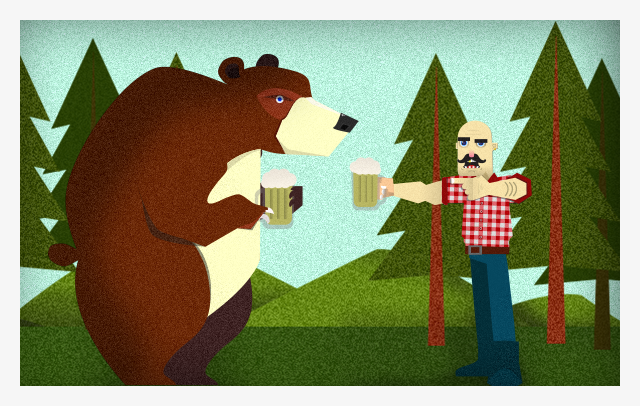
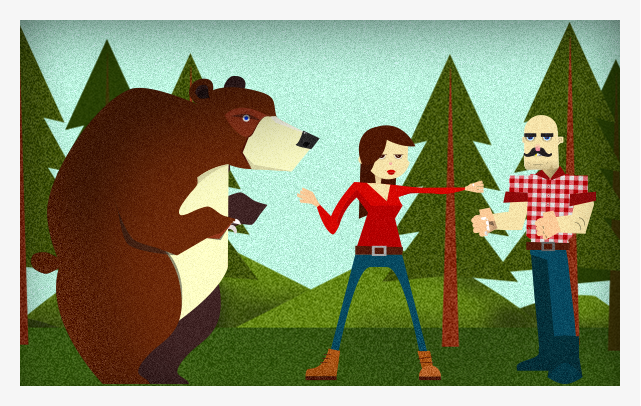
index and nova text edits; drupalcon case study

diff --git a/less/styles.less b/less/styles.less
@@ -2506,10 +2506,13 @@ img[src*="iws3.png"], img[src*="iw3.png"] {
 	.novaslider-bg .nova-block {
 		width: 50%;
 	}
-	.contact-form label {
+	.novaslider-bg .contact-form label {
 		padding-left: 20px;
 		font-size: 2em;
 		padding-top: 15px;
+	}
+	.novaslider-bg .check-group .pretty-checkbox {
+		margin: 12px 0px 0px 5px;
 	}
 }
 	
@@ -2532,14 +2535,14 @@ img[src*="iws3.png"], img[src*="iw3.png"] {
 }
 
 @media (max-width: 1010px) {
-	.contact-form label {
+	.novaslider-bg .contact-form label {
 		padding-top: 15px;
 		font-size: 1.8em;
 	}
 }
 
 @media (max-width: 959px) {
-	.contact-form label {
+	.novaslider-bg .contact-form label {
 		padding-top: 17px;
 		font-size: 1.5em;
 	}
@@ -2769,12 +2772,16 @@ img[src*="iws3.png"], img[src*="iw3.png"] {
 			}
 		}
 	}
-	.check-group .pretty-checkbox {
+	.novaslider-bg .check-group .pretty-checkbox {
 		margin: 12px 0px 0px 5px;
 	}
 }
 
-
+@media (max-width: 822px) {
+	.novaslider-bg .contact-form label {
+		font-size: 1.3em;
+	}
+}
 
 @media (max-width: 792px) {
 	.hero.aao-hero, .hero.fhi-hero, .hero.grunley-hero, .hero.ata-hero, .hero.nkh-hero, .hero.unf-hero, .hero.wagner-hero {
@@ -2831,7 +2838,7 @@ img[src*="iws3.png"], img[src*="iw3.png"] {
 	
 } /*end 770 media*/
 @media (max-width: 760px) {
-	.contact-form label {
+	.novaslider-bg .contact-form label {
 		padding-top: 12px;
 		font-size: 2.7em;
 	}
@@ -3212,7 +3219,7 @@ img[src*="iws3.png"], img[src*="iw3.png"] {
 		}
 	}
 	
-	.check-group .pretty-checkbox {
+	.novaslider-bg .check-group .pretty-checkbox {
 		margin: 12px 0px 0px 20px;
 	}
 }

diff --git a/css/styles.css b/css/styles.css
@@ -2464,10 +2464,13 @@ img[src*="iw3.png"] {
   .novaslider-bg .nova-block {
     width: 50%;
   }
-  .contact-form label {
+  .novaslider-bg .contact-form label {
     padding-left: 20px;
     font-size: 2em;
     padding-top: 15px;
+  }
+  .novaslider-bg .check-group .pretty-checkbox {
+    margin: 12px 0px 0px 5px;
   }
 }
 @media (max-width: 1060px) {
@@ -2493,13 +2496,13 @@ img[src*="iw3.png"] {
   }
 }
 @media (max-width: 1010px) {
-  .contact-form label {
+  .novaslider-bg .contact-form label {
     padding-top: 15px;
     font-size: 1.8em;
   }
 }
 @media (max-width: 959px) {
-  .contact-form label {
+  .novaslider-bg .contact-form label {
     padding-top: 17px;
     font-size: 1.5em;
   }
@@ -2674,8 +2677,13 @@ img[src*="iw3.png"] {
   .hero.kbd-hero blockquote .quote {
     font-size: 3.5em;
   }
-  .check-group .pretty-checkbox {
+  .novaslider-bg .check-group .pretty-checkbox {
     margin: 12px 0px 0px 5px;
+  }
+}
+@media (max-width: 822px) {
+  .novaslider-bg .contact-form label {
+    font-size: 1.3em;
   }
 }
 @media (max-width: 792px) {
@@ -2736,7 +2744,7 @@ img[src*="iw3.png"] {
 }
 /*end 770 media*/
 @media (max-width: 760px) {
-  .contact-form label {
+  .novaslider-bg .contact-form label {
     padding-top: 12px;
     font-size: 2.7em;
   }
@@ -3053,7 +3061,7 @@ img[src*="iw3.png"] {
   .capabilities-bg .std-body li {
     font-size: 18px;
   }
-  .check-group .pretty-checkbox {
+  .novaslider-bg .check-group .pretty-checkbox {
     margin: 12px 0px 0px 20px;
   }
 }

diff --git a/CaseStudies/Drupalcon/index.php b/CaseStudies/Drupalcon/index.php
@@ -11,64 +11,74 @@
 		<h1>Drupalcon</h1>
 		<article class="row-fluid">
 			<div class="span6">
-				<p>Lorem ipsum dolor sit amet, consectetur adipiscing elit. Mauris quis lectus est, at cursus orci. In hac habitasse platea dictumst. Mauris leo leo, egestas ullamcorper auctor et, accumsan quis lectus. Donec quis dolor sit amet risus sagittis pretium vitae vel diam.</p>
-				<br/>
-				<p>Lorem ipsum dolor sit amet, consectetur adipiscing elit. Mauris quis lectus est, at cursus orci. In hac habitasse platea dictumst. Mauris leo leo, egestas ullamcorper auctor et, accumsan quis lectus. Donec quis dolor sit amet risus sagittis pretium vitae vel diam.</p>
+				<p>Many Drupal enthusiasts have traveled long distances to be at this year’s DrupalCon (aka the biggest Drupal conference). They’ve endured freakishly long car rides, plane rides with screaming babies, and train rides from hell to make it to Portland safe and sound. With that in mind, we wanted to create an app to make it easy for these weary travelers to maximize their DrupalCon experiences. If you use our app, you won’t be sitting around saying, “Well I don’t know… What do you wanna do?” We’ve researched, deliberated, and made some cut-throat decisions to compile our list of the best things to do in Portland. Our fun, interactive app lets you live it up at DrupalCon by showing you what’s going on at the conference and the hot spots to check out in Portland, along with making it easy to connect with other Drupal lovers.</p>
 			</div>
 			<div class="span6 l">
 				<ul class="highlights">
-					<li><strong>Industry</strong><span>dolor sit amet,</span></li>
-					<li><strong>Solutions</strong><span>dolor sit amet,</span></li>
-					<li><strong>Technology</strong><span>dolor sit amet,</span></li>
+					<li><strong>Industry</strong><span>Mobile</span></li>
+					<li><strong>Solutions</strong><span>Mobile App</span></li>
+					<li><strong>Technology</strong><span>Drupal, Apple IOS</span></li>
 				</ul>
 			</div>
 		</article> <!-- end of row --> 
 	</section> <!-- end of block -->
 	
 	<section class="block">
-		<article class="row-fluid padding-bottom">
-			<div class="span5 space">
-				<figure class="center-img">
-					<img src="../../images/caseStudies/global_ios_logo.png" alt="IOS Logo" class="padding-bottom">
-				</figure>
-			</div>
-			<div class="span8 l">
-				<h2>Build on IOS</h2>
-				<p>Lorem ipsum dolor sit amet, constur sadipscing elitr, sed diam nonumy eirmod por invidunt ut labore et dolore magna aliquyamerat, sed diam voluptua. At vero eos et accusam et justo duo dolores et ea rebum. Stet clita sd gubergren, no sea takimata sanctus est Lorem ipsum dolor sit</p>
-			</div>
-		</article>
+		
 		<div class="row-fluid first">
 			<article class="span5">
 				<figure class="center-img">
-					<img src="../../images/caseStudies/global_drupal_logo.png" alt="Drupal">
+					<img src="../../images/caseStudies/global_drupal-ios_logo.png" alt="Drupal + iOS">
 				</figure>
 			</article>
 			<article class="span8">
-				<h2>Custom Drupal Modules</h2>
-				<p>Lorem ipsum dolor sit amet, constur sadipscing elitr, sed diam nonumy eirmod por invidunt ut labore et dolore magna aliquyamerat, sed diam voluptua. At vero eos et accusam et justo duo dolores et ea rebum. Stet clita sd gubergren, no sea takimata sanctus est Lorem ipsum dolor sit</p>
+				<h2>Built on iOS</h2>
+				<p>Unsurprisingly, our DrupalCon app is powered by Drupal. Our interactive engineers built this all-in-one immersive app to work seamlessly on iOS devices. It transfers data from the Drupal framework to our custom app’s framework, making it easy to get the full DrupalCon experience on the go.</p>
 			</article>
 		</div> <!-- end of first row -->
-		<div class="row-fluid">
+		<div class="row-fluid first">
 			<article class="span4">
 				<figure class="center-img">
 					<img src="../../images/caseStudies/global_drupal_man.jpg" alt="Drupalcon Man">
 				</figure>
 				<h2>Telling a Story</h2>
-				<p>Lorem ipsum dolor sit amet, constur sadipscing elitr, sed diam nonumy eirmod por invidunt ut labore et dolore magna aliquyamerat, sed diam voluptua. At vero eos et accusam et justo duo dolores et ea rebum. Stet clita sd gubergren, no sea takimata sanctus est Lorem ipsum dolor sit amet. Lorem ipsum dolor sit amet, consetetur</p>
+				<p>When we think of Portland, we think about the vibrant Portland culture, the renowned culinary scene, the hordes of breweries, and the oodles of outdoorsy activities. We wanted our app to cater to the Portland culture and tell a fun story to create an engaging experience. To bring the app’s characters to life, we paired vivacious illustrations with a creative backstory to give them personality and flair.</p>
 			</article>
 			<article class="span4">
 				<figure class="center-img">
 					<img src="../../images/caseStudies/global_chart_logo.jpg" alt="Chart">
 				</figure>
 				<h2>Capturing Data</h2>
-				<p>Lorem ipsum dolor sit amet, constur sadipscing elitr, sed diam nonumy eirmod por invidunt ut labore et dolore magna aliquyamerat, sed diam voluptua. At vero eos et accusam et justo duo dolores et ea rebum. Stet clita sd gubergren, no sea takimata sanctus est Lorem ipsum dolor sit amet. Lorem ipsum dolor sit amet, consetetur</p>
+				<p>Our app pulls data from the DrupalCon Portland site to access conference info like speakers, room numbers, and course level of difficulty. We enabled push notifications so you'll be in the loop if something changes at the last minute. The app also pulls data from Twitter to give you up to the minute DrupalCon updates.</p>
 			</article>
 			<article class="span4 l">
 				<figure class="center-img">
 					<img src="../../images/caseStudies/global_swipe_logo.jpg" alt="Swipe">
 				</figure>
 				<h2>Interactive Elements</h2>
-				<p>Lorem ipsum dolor sit amet, constur sadipscing elitr, sed diam nonumy eirmod por invidunt ut labore et dolore magna aliquyamerat, sed diam voluptua. At vero eos et accusam et justo duo dolores et ea rebum. Stet clita sd gubergren, no sea takimata sanctus est Lorem ipsum dolor sit amet. Lorem ipsum dolor sit amet, consetetur</p>
+				<p>Our goal was to make this app engaging and memorable with interactive elements like gesture controls. The app features animations like punching the bear and spinning the tracks wheel.</p>
+			</article>
+		</div> <!-- end of second row -->
+		
+		
+		<div class="row-fluid">
+			<article class="span2">
+				<figure class="center-img">
+					<img src="../../images/caseStudies/global_map_logo.png" alt="Map">
+				</figure>
+			</article>
+			<article class="span4">
+				<h2>Mapping</h2>
+				<p>Now that you’ve found some cool places to check out, how do you get there? We used Apple Maps with native map features to make it easy to locate featured destinations.</p>
+			</article>
+			<article class="span2">
+				<figure class="center-img">
+					<img src="../../images/caseStudies/global_twitter_logo.png" alt="Twitter">
+				</figure>
+			</article>
+			<article class="span4 l">
+				<h2>Twitter Connect</h2>
+				<p>Get up-to the minute news updates from the @drupalcon Twitter feed, and submit your own tweets with the #drupalcon hashtag.</p>
 			</article>
 		</div> <!-- end of second row -->
 	</section> <!-- end of block -->
@@ -79,11 +89,12 @@
 				<img src="../../images/caseStudies/drupalcon_mobile_zoom.png" alt="Drupalcon Schedule" class="padding-bottom">
 			</div>
 			<div class="span4 l">
-				<h2>All in the details</h2>
-				<p>Lorem ipsum dolor sit amet, constur sadipscing elitr, sed diam nonumy eirmod por invidunt ut labore et dolore magna aliquyamerat, sed diam voluptua. At vero eos et accusam et justo duo dolores et ea rebum. Stet clita sd gubergren, no sea takimata sanctus est Lorem ipsum dolor sit amet. Lorem ipsum dolor sit amet, consetetur</p>
-				<br/><br/>
 				<h2>A system that works</h2>
-				<p>Lorem ipsum dolor sit amet, constur sadipscing elitr, sed diam nonumy eirmod por invidunt ut labore et dolore magna aliquyamerat, sed diam voluptua. At vero eos et accusam et justo duo dolores et ea rebum. Stet clita sd gubergren, no sea takimata sanctus est Lorem ipsum dolor sit amet. Lorem ipsum dolor sit amet, consetetur</p>
+				<p>Fun, interactive, and engaging, our DrupalCon app is the perfect companion for DrupalCon attendees. With this app, you won’t be reliant on Wi-Fi to figure out what session to go to next or how much time you have in between. Our app displays the DrupalCon schedule along with the speaker, room number, and each session’s level of difficulty.</p>
+				<br/>
+				<p>Our user interface experts went through many phases to ensure that the experience is uniform across every category. It’s clean, organized, and easy to navigate. Every detail page has the same structure and feel.</p>
+				<br/>
+				<p>More than anything, we wanted our app to be memorable. We didn’t want to create a boring app just listing the DrupalCon schedule. Feeling spontaneous? Give our track wheel a spin. Our interactive engineers built a wheel selector with a filter system to show the 9 color coded DrupalCon tracks. The app’s sorting functionality gives you the option to select by date, by track, or to spin the wheel.</p>
 			</div>
 		</article>
 	</section> <!-- end of block -->
@@ -101,15 +112,17 @@
 				</figure>
 			</div>
 			<div class="span4 l">
-				<h2>Building an experience</h2>
-				<p>Lorem ipsum dolor sit amet, constur sadipscing elitr, sed diam nonumy eirmod por invidunt ut labore et dolore magna aliquyamerat, sed diam voluptua. At vero eos et accusam et justo duo dolores et ea rebum. Stet clita sd gubergren, no sea takimata sanctus est Lorem ipsum dolor sit amet. Lorem ipsum dolor sit amet, consetetur</p>
+				<h2>Design meets function</h2>
+				<p>Explore Portland the easy way. Choose from 7 different categories—food, coffee, breweries, biking, hiking, gardens, and film. Let’s say you tap breweries. You are then taken to a page listing all of the Portland breweries we have selected. Then, say you pick BridgePort Brewing Company. You are then taken to a page with a quick description of BridgePort along with their address, phone number, website, and map. A few taps later and your brewery tour is planned and beervana is moments away.</p>
 			</div>
 		</article>
 		<br><br>
-		<article class="row-fluid">
+		<article class="row-fluid first">
 			<div class="span4">
-				<h2>Design meet function</h2>
-				<p>Lorem ipsum dolor sit amet, constur sadipscing elitr, sed diam nonumy eirmod por invidunt ut labore et dolore magna aliquyamerat, sed diam voluptua. At vero eos et accusam et justo duo dolores et ea rebum. Stet clita sd gubergren, no sea takimata sanctus est Lorem ipsum dolor sit amet. Lorem ipsum dolor sit amet, consetetur</p>
+				<h2>All In the details</h2>
+				<p>Our app is fun, it’s quirky, and it’s got personality. By now, you may be wondering, why is a lumberjack punching a bear? Our content strategist dreamt up a backstory for the app’s 3 main characters and promoted the campaign across social media. Here’s a glimpse. Clyde is the socially awkward lumberjack who has been living alone in the Oregon mountains ever since he was abandoned on a school field trip at age 10. Remington is the womanizing grizzly bear who loves gourmet cooking. And finally, Emma, the beautiful Drupal wiz who has charmed the pants off Remy and Clyde and ended their close friendship.</p>
+				<br/>
+				<p>Accompany Clyde on his first trip out of the woods since he was 10 as he explores Portland and DrupalCon to try to find the girl of his dreams, Emma. Don’t forget keep an eye out for Remy and Clyde passing out swag once you get to DrupalCon.</p>
 			</div>
 			<div class="span8 l">
 				<img src="../../images/caseStudies/drupalcon_design1.png" alt="Drupalcon Schedule" class="padding-bottom">
@@ -117,12 +130,11 @@
 		</article>
 		<br/>
 		<article class="row-fluid">
-			<div class="span4">
-				<h2>Design meet function</h2>
-				<p>Lorem ipsum dolor sit amet, constur sadipscing elitr, sed diam nonumy eirmod por invidunt ut labore et dolore magna aliquyamerat, sed diam voluptua. At vero eos et accusam et justo duo dolores et ea rebum. Stet clita sd gubergren, no sea takimata sanctus est Lorem ipsum dolor sit amet. Lorem ipsum dolor sit amet, consetetur</p>
+			<div class="span6">
+				<img src="../../images/caseStudies/drupalcon_design2.png" alt="Drupalcon" class="padding-bottom">
 			</div>
-			<div class="span8 l">
-				<img src="../../images/caseStudies/drupalcon_design2.png" alt="Drupalcon Schedule" class="padding-bottom">
+			<div class="span6 l">
+				<img src="../../images/caseStudies/drupalcon_design3.png" alt="Drupalcon" class="padding-bottom">
 			</div>
 		</article>		
 	</section> <!-- end of block -->
@@ -134,7 +146,9 @@
 			</div>
 			<div class="span4 l">
 				<h2>Location-based Services</h2>
-				<p>Lorem ipsum dolor sit amet, constur sadipscing elitr, sed diam nonumy eirmod por invidunt ut labore et dolore magna aliquyamerat, sed diam voluptua. At vero eos et accusam et justo duo dolores et ea rebum. Stet clita sd gubergren, no sea takimata sanctus est Lorem ipsum dolor sit amet. Lorem ipsum dolor sit amet, consetetur</p>
+				<p>Once you have found some cool places you want to check out, our app will get you there. Our app pinpoints your exact location to help you find nearby coffee shops, restaurants, and other featured attractions. It pulls information from cellular, wi-fi, and GPS to determine your location.</p>
+				<br/>
+				<p>I got rid of some of the text blocks because I feel like we should keep it really simple and concise to let the app and illustrations speak for themselves. I also asked Billy to change the order of a couple of the screenshots to line up with the copy more.</p>
 
 			</div>
 		</article>

diff --git a/index.php b/index.php
@@ -304,8 +304,7 @@
 					<p>Kick Butts Day</p>
 				</article>
 				<article class="item safo-client second-page">
-					<a href="http://www.saforian.com/CaseStudies/Drupalcon"><img src='images/site/client-thumbnails/drupalcon.jpg' alt='Drupalcon' /></a>
-					<div class="port-overlay"><span class="port-strip">Launching</span><br/><span class="port-strip">Soon</span></div>
+					<a href="http://www.saforian.com/CaseStudies/Drupalcon" class="ignore"><img src='images/site/client-thumbnails/drupalcon.jpg' alt='Drupalcon' /></a>
 					<p>Drupalcon</p>
 				</article>
 				
@@ -403,7 +402,7 @@
 							</div>
 							<div class="input-group">
 								<div class="check-group group">
-									<label for='type'>Sign up for email</label>
+									<label for='type'>Newsletter Sign Up</label>
 									<input type='checkbox' id="newsletter" name='newsletter' checked="checked"/>
 								</div>
 							</div>

diff --git a/northern-virginia.php b/northern-virginia.php
@@ -119,7 +119,7 @@
 						<div class="span6 input-group">
 							<div class="check-group group">
 								<input type='checkbox' id="newsletter" name='newsletter' checked="checked"/>
-								<label for='type'>Sign up for email</label>
+								<label for='type'>Newsletter Sign Up</label>
 							</div>
 						</div>
 					</div>
